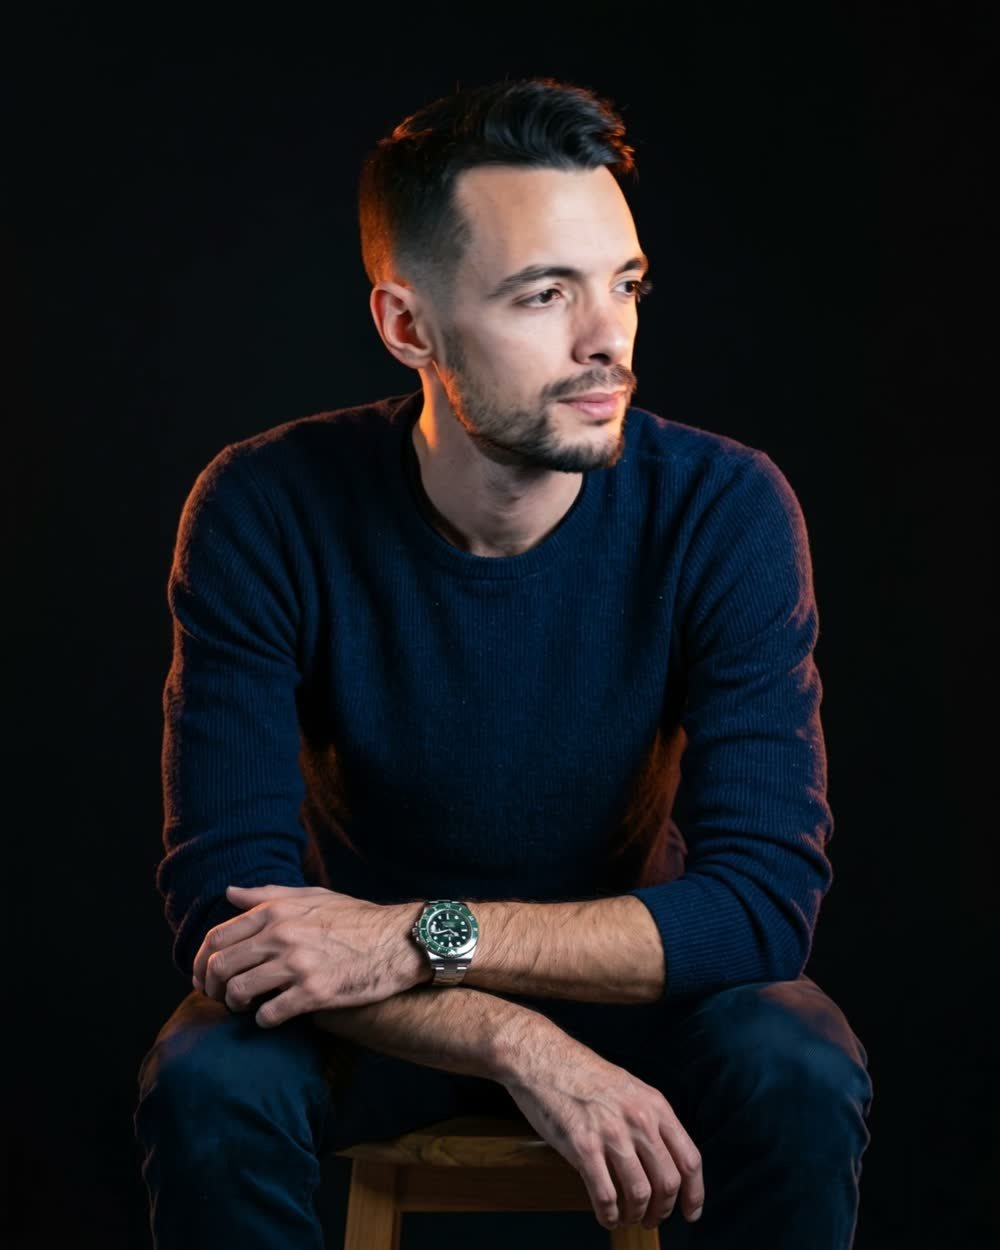
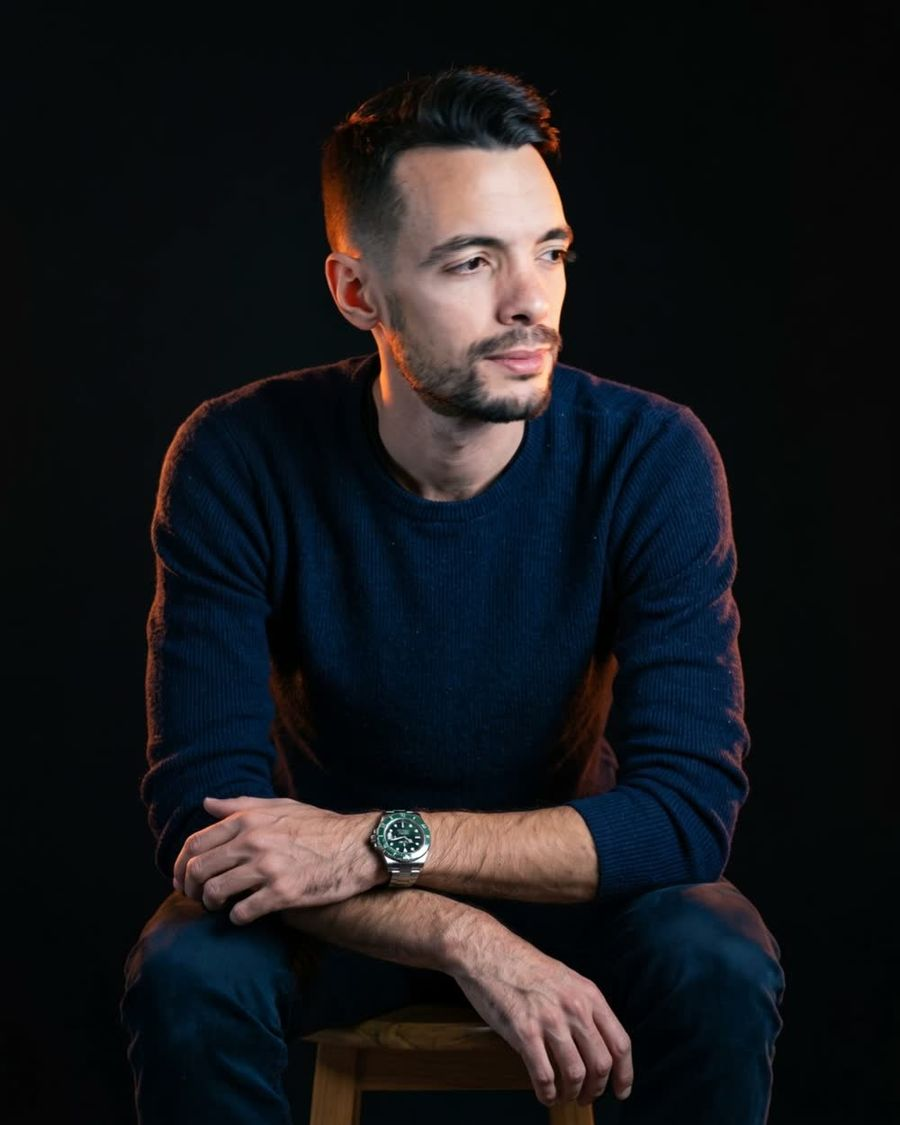
Ritratto fluido, totale opaco, filosofia

Changed region(s): [[0.3422, 0.0622, 0.6533, 0.4044]]

diff --git a/index.html b/index.html
@@ -228,6 +228,7 @@
 .pos .ritratto{position:sticky;top:0;height:100vh;width:100%;z-index:0;overflow:hidden;pointer-events:none}
 .pos .ritratto img,.pos .ritratto .respiro,.pos .ritratto .palpebre{position:absolute;top:-4%;right:-2%;height:108%;width:min(66vw,1200px);object-fit:cover;object-position:62% 0;
   display:block;border:0;border-radius:0;will-change:transform;transition:transform .12s linear}
+.pos .ritratto .quadro2{opacity:0;transition:none}
 .pos .ritratto .palpebre{opacity:0;transition:opacity .45s,transform .12s linear;pointer-events:none}
 .pos .ritratto.fermo .palpebre{opacity:1}
 .pos .ritratto.tocco .palpebre{display:none}
@@ -235,7 +236,7 @@
   background:linear-gradient(90deg,#0C0908 0%,rgba(12,9,8,.92) 18%,rgba(12,9,8,.35) 42%,rgba(12,9,8,0) 62%),
              linear-gradient(180deg,rgba(12,9,8,.35) 0%,rgba(12,9,8,0) 22%,rgba(12,9,8,0) 70%,#0C0908 100%)}
 .pos .ritratto .respiro{display:none}
-.pos .ritratto.tocco .quadro{display:none}
+.pos .ritratto.tocco .quadro,.pos .ritratto.tocco .quadro2{display:none}
 .pos .ritratto.tocco .respiro{display:block}
 .pos .ritratto .didascalia{position:absolute;right:28px;bottom:22px;z-index:1;font-size:10.5px;letter-spacing:2px;
   text-transform:uppercase;color:rgba(240,232,226,.38);opacity:0;transition:opacity .6s}
@@ -373,7 +374,8 @@
 /* scorrendo, la testata e ogni riga si fermano in alto e le righe dopo ci si impilano sopra, a fisarmonica */
 .pos .bl-conto .testata{position:sticky;top:58px;z-index:2;background:#120D0A}
 .pos .bl-conto .voce,.pos .bl-conto .totale{position:sticky;top:calc(58px + 46px + var(--r,1) * 12px);z-index:calc(2 + var(--r,1));
-  background:#120D0A;box-shadow:0 -14px 30px rgba(0,0,0,.45)}
+  background:#120D0A;box-shadow:0 -14px 30px rgba(0,0,0,.55)}
+.pos .bl-conto .totale{border-top:1px solid rgba(255,107,0,.35)}
 .pos .bl-conto .totale{background:#1A110B}
 .pos .bl-conto .testata,.pos .bl-conto .voce,.pos .bl-conto .totale{display:grid;grid-template-columns:1.15fr .9fr 1.45fr}
 .pos .bl-conto .testata span{padding:16px 26px;font-size:11px;font-weight:700;letter-spacing:2.4px;text-transform:uppercase;
@@ -391,11 +393,11 @@
 .pos .bl-conto .dopo{background:linear-gradient(90deg,rgba(255,107,0,.08),rgba(255,107,0,.02))}
 .pos .bl-conto .dopo i{display:block;font-style:normal;font-size:11px;font-weight:700;letter-spacing:2px;text-transform:uppercase;
   color:var(--acc);margin-bottom:10px}
-.pos .bl-conto .totale{background:rgba(255,107,0,.05)}
+.pos .bl-conto .totale{background:#1A110B}
 .pos .bl-conto .totale>div{border-bottom:0;padding:28px 26px}
 .pos .bl-conto .totale .cosa b{font-size:20px}
 .pos .bl-conto .totale b.cifrona{font-size:52px;line-height:1;letter-spacing:-2px;margin:0;font-weight:800}
-.pos .bl-conto .totale b.cifrona span{font-size:20px;letter-spacing:0;margin-left:3px}
+.pos .bl-conto .totale b.cifrona span{display:inline;font-size:20px;letter-spacing:0;margin-left:3px}
 .pos .bl-conto .totale .oggi .cifrona,.pos .bl-conto .totale .oggi .cifrona span{color:var(--neg)}
 .pos .bl-conto .totale .dopo .cifrona,.pos .bl-conto .totale .dopo .cifrona span{color:var(--acc)}
 .pos .martedi{margin-top:40px;display:grid;grid-template-columns:1fr;gap:14px}
@@ -1074,8 +1076,8 @@
 </div></div>
 
 <div class="sez" id="pos-andrea">
-  <div class="ritratto vivo" id="pos-ritratto" data-base="https://kelevraweb.github.io/profitos-vsl/img/andrea/f" data-frames="30" data-centro="17">
-    <img class="quadro" src="https://kelevraweb.github.io/profitos-vsl/img/andrea/f17.jpg" width="1000" height="1250" alt="Andrea Audisio" loading="lazy">
+  <div class="ritratto vivo" id="pos-ritratto" data-base="https://kelevraweb.github.io/profitos-vsl/img/andrea/f" data-frames="38" data-centro="17">
+    <img class="quadro" src="https://kelevraweb.github.io/profitos-vsl/img/andrea/f17.jpg" width="900" height="1125" alt="Andrea Audisio" loading="lazy"><img class="quadro quadro2" src="https://kelevraweb.github.io/profitos-vsl/img/andrea/f17.jpg" width="900" height="1125" alt="" aria-hidden="true" loading="lazy">
     <video class="respiro" muted loop playsinline preload="none" poster="https://kelevraweb.github.io/profitos-vsl/img/andrea-ritratto.jpg" data-src="https://kelevraweb.github.io/profitos-vsl/img/andrea-testa.mp4" aria-hidden="true"></video>
     <video class="palpebre" muted loop playsinline preload="none" data-src="https://kelevraweb.github.io/profitos-vsl/img/andrea-fermo.mp4" aria-hidden="true"></video>
     <span class="didascalia">muovi il mouse: ti segue</span>
@@ -1144,9 +1146,11 @@
   <p class="et">Come la penso</p>
   <h2>La nostra filosofia</h2>
   <div class="filo">
-    <p>Il punto dell'AI è che dovrebbe <span>toglierti il lavoro</span>, non creartene altro. Io non
-    credo che sostituirà le persone: credo che se un lavoro lo fa male, <span>è giusto che lo faccia
-    un sistema fatto bene</span>. Quello che resta a te è la faccia, il giudizio e le decisioni.</p>
+    <p>Il punto di un percorso, o di un'agenzia, dovrebbe essere <span>toglierti lavoro</span>: non
+    lasciartene addosso altro. Il corso ti insegna a fare tutto tu. L'agenzia fa un pezzo, e il resto
+    resta a te. Io credo un'altra cosa: se un lavoro lo fai male perché non è il tuo mestiere,
+    <span>è giusto che lo faccia un sistema fatto bene</span>. Quello che resta a te è la faccia, il
+    giudizio e le decisioni.</p>
     <p class="firma">Andrea Audisio</p>
   </div>
 </div></div>
@@ -1722,7 +1726,7 @@
         if (x.isIntersecting) { if (!vr.src) vr.src = vr.getAttribute("data-src"); vr.play().catch(function(){}); } else if (vr.src) vr.pause(); });
       }, { rootMargin: "200px 0px" }).observe(vr);
     } else {
-      var N = +rit.getAttribute("data-frames"), C = +rit.getAttribute("data-centro"), base = rit.getAttribute("data-base"), quadro = rit.querySelector(".quadro");
+      var N = +rit.getAttribute("data-frames"), C = +rit.getAttribute("data-centro"), base = rit.getAttribute("data-base"), quadro = rit.querySelector(".quadro"), quadro2 = rit.querySelector(".quadro2");
       var pronti = [], caricati = 0, meta = C, ora = C, tx = 0, ty = 0, vx = 0, vy = 0, gira = false;
       var palp = rit.querySelector(".palpebre"), tFermo = null;
       function sveglia() { rit.classList.remove("fermo"); clearTimeout(tFermo); tFermo = null; }
@@ -1741,11 +1745,13 @@
       }
       new IntersectionObserver(function (e) { e.forEach(function (x) { if (x.isIntersecting) carica(); }); }, { rootMargin: "400px 0px" }).observe(rit);
       function passo() {
-        ora += (meta - ora) * 0.14; vx += (tx - vx) * 0.12; vy += (ty - vy) * 0.12;
-        var k = Math.max(0, Math.min(N - 1, Math.round(ora)));
+        ora += (meta - ora) * 0.11; vx += (tx - vx) * 0.12; vy += (ty - vy) * 0.12;
+        var pos = Math.max(0, Math.min(N - 1, ora)), k = Math.floor(pos), k2 = Math.min(N - 1, k + 1), fr = pos - k;
         if (pronti[k] && pronti[k].complete && quadro.src !== pronti[k].src) quadro.src = pronti[k].src;
-        quadro.style.transform = palp.style.transform = "translate(" + (vx * -14) + "px," + (vy * -10) + "px)";
-        if (Math.abs(meta - ora) > 0.05 || Math.abs(tx - vx) > 0.005 || Math.abs(ty - vy) > 0.005) requestAnimationFrame(passo); else gira = false;
+        if (pronti[k2] && pronti[k2].complete && quadro2.src !== pronti[k2].src) quadro2.src = pronti[k2].src;
+        quadro2.style.opacity = (pronti[k2] && pronti[k2].complete) ? fr.toFixed(3) : 0;
+        quadro.style.transform = quadro2.style.transform = palp.style.transform = "translate(" + (vx * -14) + "px," + (vy * -10) + "px)";
+        if (Math.abs(meta - ora) > 0.01 || Math.abs(tx - vx) > 0.005 || Math.abs(ty - vy) > 0.005) requestAnimationFrame(passo); else gira = false;
       }
       function muovi() { if (!gira) { gira = true; requestAnimationFrame(passo); } }
       sezChi.addEventListener("mousemove", function (e) {
